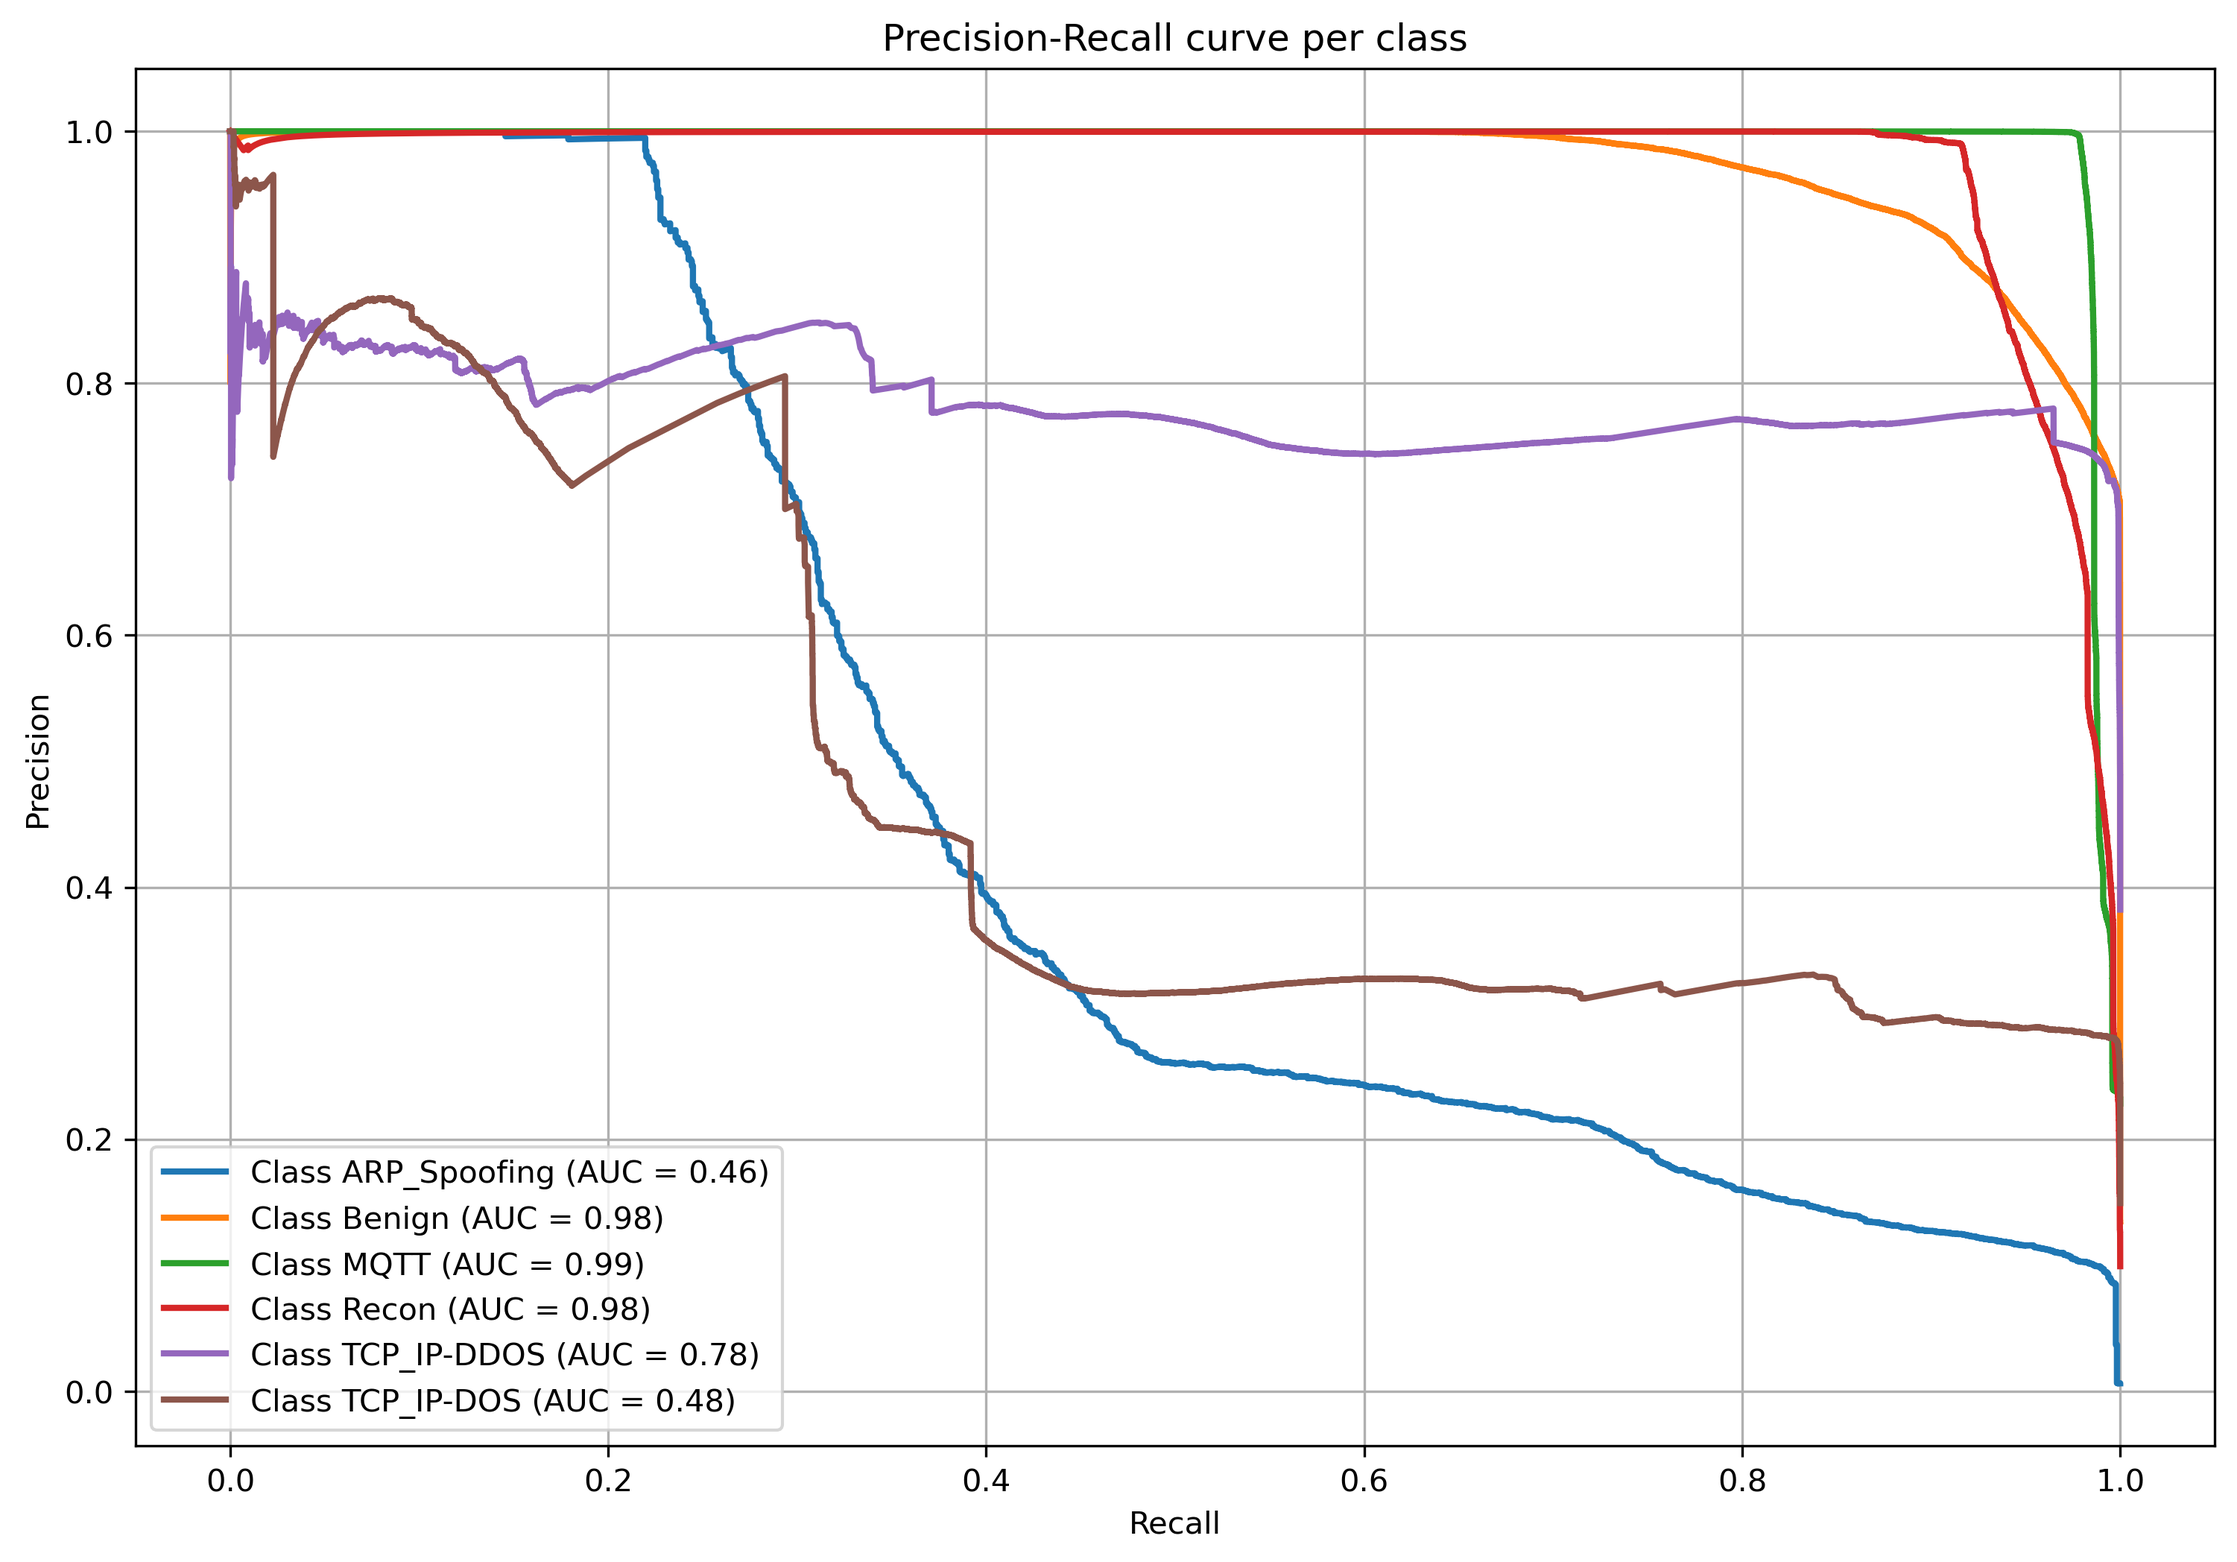
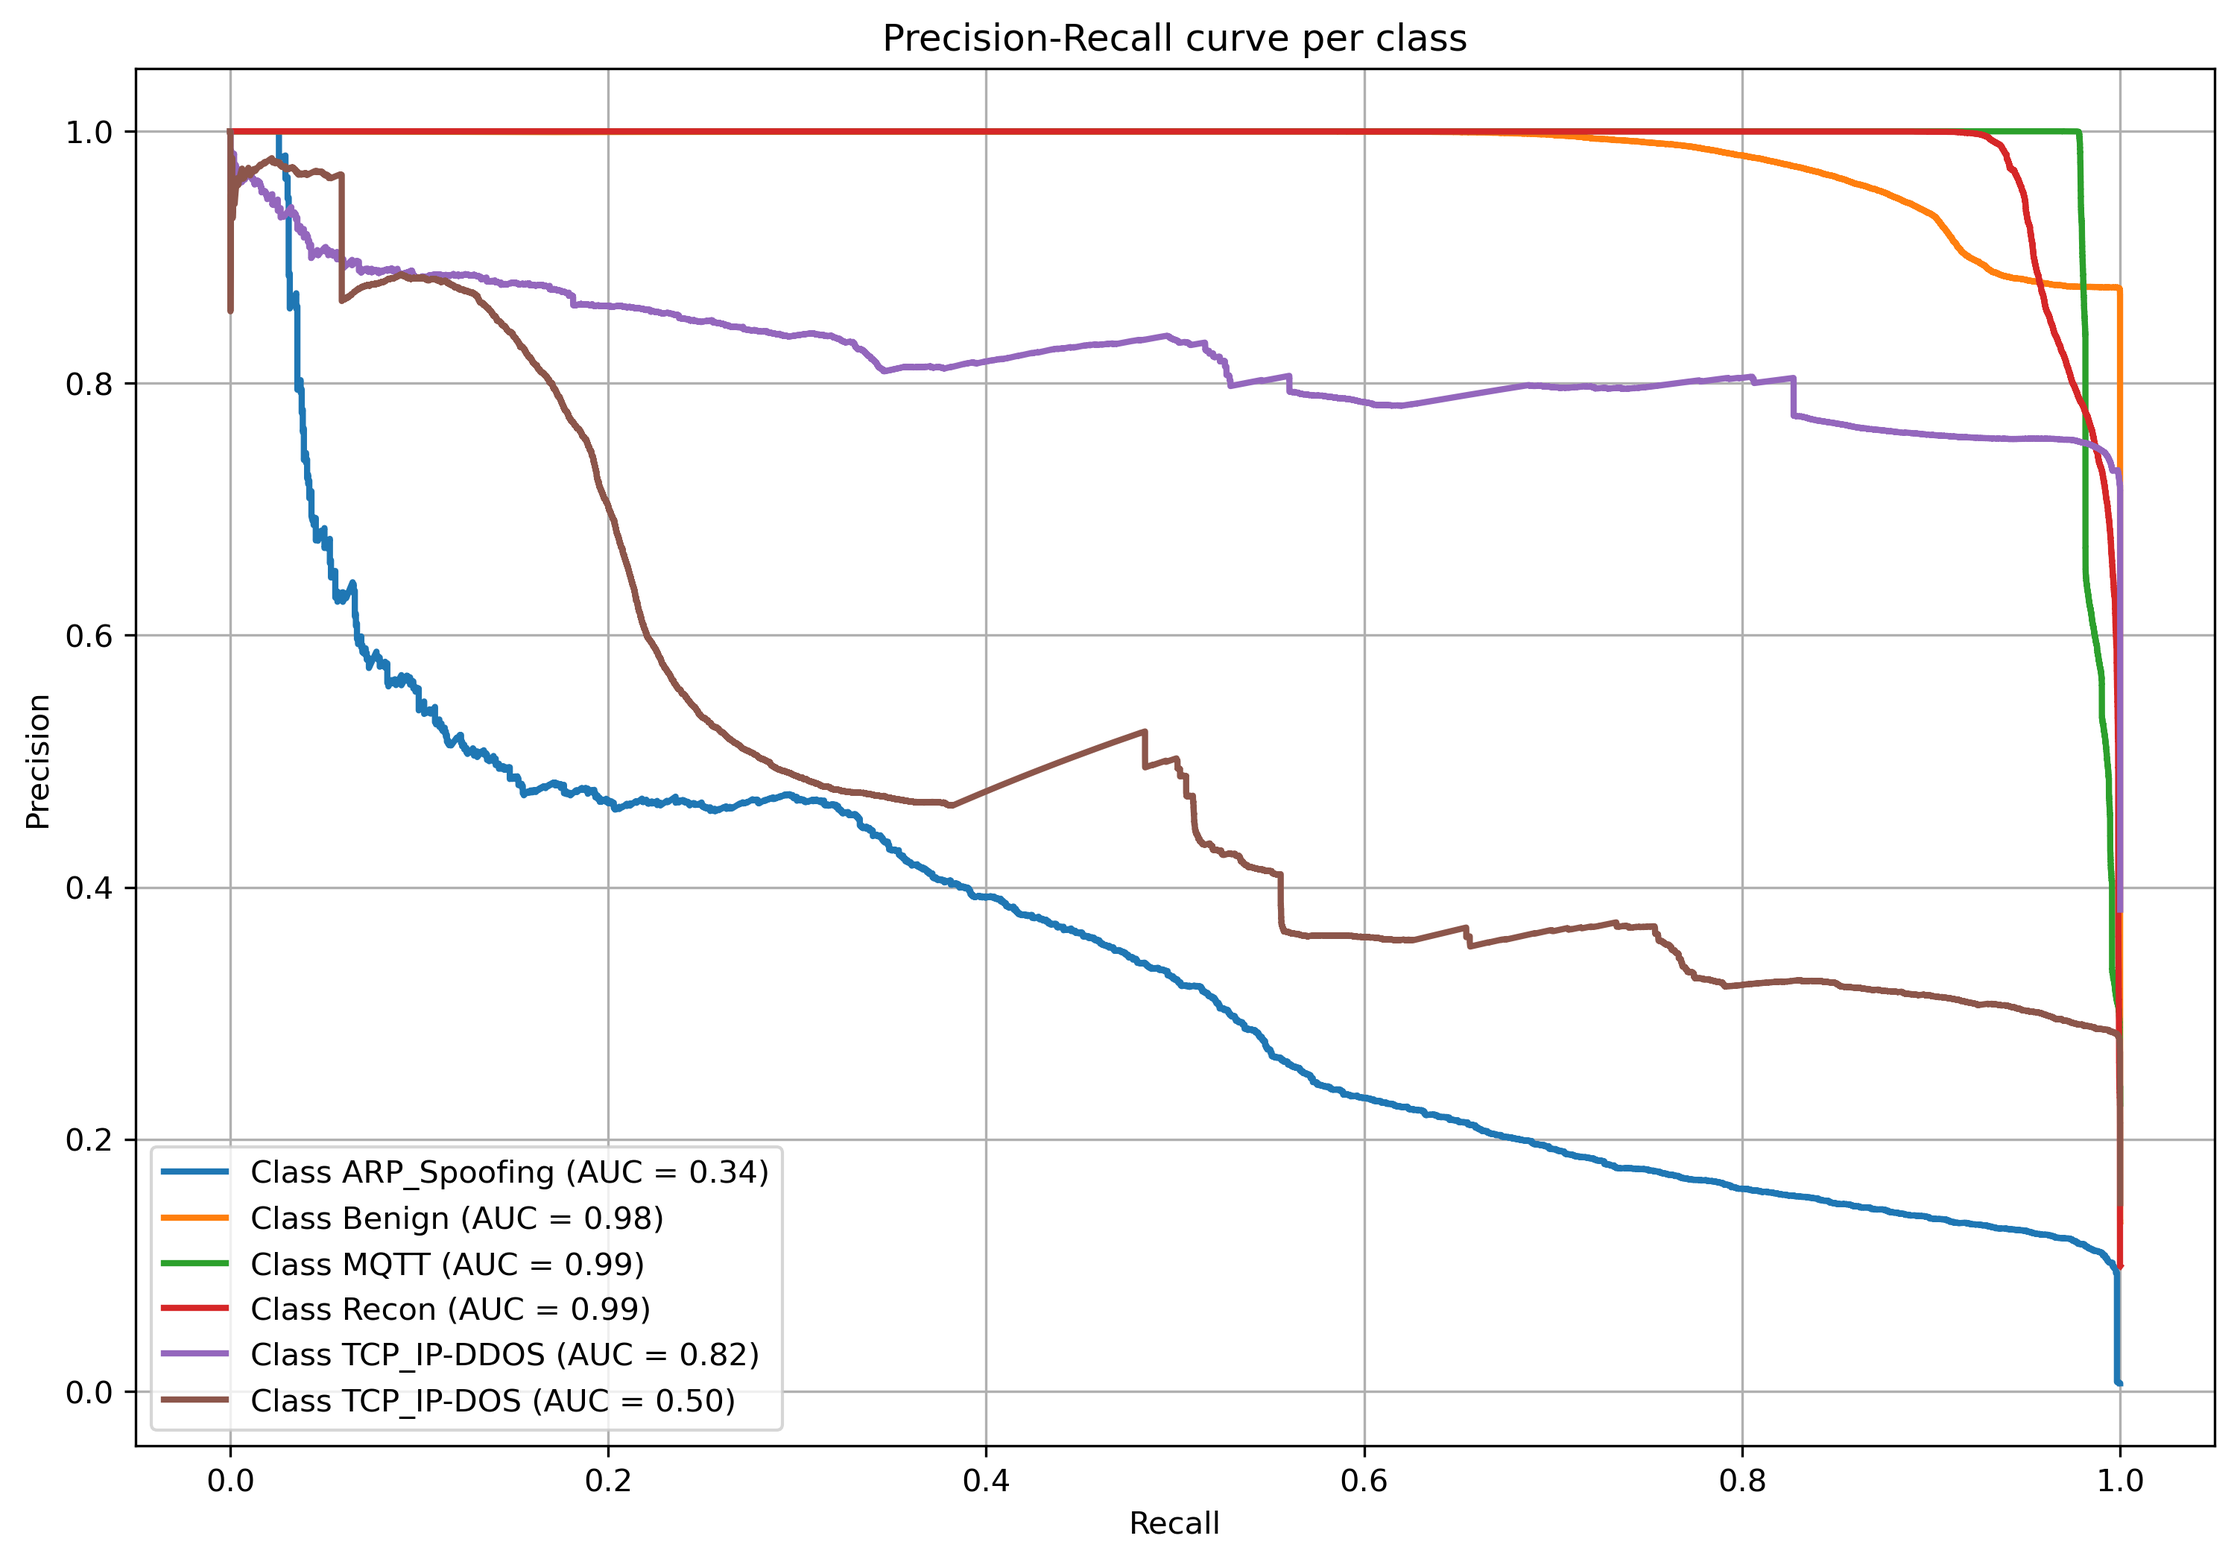
finish curtails dataset into big/med/small

diff --git a/LTNtorch/reduct_data.py b/LTNtorch/reduct_data.py
@@ -1,16 +1,21 @@
 import pandas as pd
+from sklearn.model_selection import train_test_split
+
+label_L1_mapping = [
+    "ARP_Spoofing", "Benign", "MQTT", "Recon", "TCP_IP-DDOS", "TCP_IP-DOS"
+]
 
 # 读取训练集和测试集文件
 # processed_train_file = '/home/zyang44/Github/baseline_cicIOT/CIC_IoMT/19classes/reduced_train_data.csv'
 # processed_test_file = '/home/zyang44/Github/baseline_cicIOT/CIC_IoMT/19classes/reduced_test_data.csv'
-# processed_train_file = '/home/zyang44/Github/baseline_cicIOT/CIC_IoMT/19classes/processed_train_data.csv'
-# processed_test_file = '/home/zyang44/Github/baseline_cicIOT/CIC_IoMT/19classes/processed_test_data.csv'
+processed_train_file = '/home/zyang44/Github/baseline_cicIOT/CIC_IoMT/19classes/processed_train_data.csv'
+processed_test_file = '/home/zyang44/Github/baseline_cicIOT/CIC_IoMT/19classes/processed_test_data.csv'
 
 
-processed_train_file = '/home/zyang44/Github/baseline_cicIOT/CIC_IoMT/6classes/processed_train_data_6classes.csv'
-processed_test_file = '/home/zyang44/Github/baseline_cicIOT/CIC_IoMT/6classes/processed_test_data_6classes.csv'
-# processed_train_file = '/home/zyang44/Github/baseline_cicIOT/CIC_IoMT/6classes/6classes_15k_train.csv'
-# processed_test_file = '/home/zyang44/Github/baseline_cicIOT/CIC_IoMT/6classes/6classes_1700_test.csv'
+# processed_train_file = '/home/zyang44/Github/baseline_cicIOT/CIC_IoMT/6classes/processed_train_data_6classes.csv'
+# processed_test_file = '/home/zyang44/Github/baseline_cicIOT/CIC_IoMT/6classes/processed_test_data_6classes.csv'
+# processed_train_file = '/home/zyang44/Github/baseline_cicIOT/CIC_IoMT/6classes/6classes_100k_train.csv'
+# processed_test_file = '/home/zyang44/Github/baseline_cicIOT/CIC_IoMT/6classes/6classes_10k_test.csv'
 
 # 加载数据
 train_data = pd.read_csv(processed_train_file)
@@ -49,8 +54,9 @@ def print_label_counts(df):
     # else:
     #     print("The DataFrame does not have a 'label' column.")
 
-
+# print("Training data shape:", train_data.shape)
 # print_label_counts(train_data)
+# print("Test data shape:", test_data.shape)
 # print_label_counts(test_data)
 
 
@@ -68,11 +74,11 @@ def print_extended_label_counts(df):
         label_L1_counts = df['label_L1'].value_counts()
         label_L2_counts = df['label_L2'].value_counts()
 
-        print("Label_L1 Counts:")
+        print("label_L1 Counts:")
         for label, count in label_L1_counts.items():
             print(f"Label_L1 {label}: {count} entries")
 
-        print("\nLabel_L2 Counts:")
+        print("\nlabel_L2 Counts:")
         for label, count in label_L2_counts.items():
             print(f"Label_L2 {label}: {count} entries")
 
@@ -95,7 +101,7 @@ def print_extended_label_counts(df):
 
 
 #########################################################################
-def reduce_instances(df, labels_to_reduce, reduction_fraction=0.01):
+def reduce_instances(df, labels_to_reduce, reduction_fraction=0.5):
     """
     减少特定标签类别的实例至原数据的一定比例。
 
@@ -123,16 +129,16 @@ def reduce_instances(df, labels_to_reduce, reduction_fraction=0.01):
 
 
 # 调用函数
-reduced_train_data = reduce_instances(train_data, ["TCP_IP-DDOS", "TCP_IP-DOS"], 0.1)
-reduced_test_data = reduce_instances(test_data, ["TCP_IP-DDOS", "TCP_IP-DOS"], 0.1)
+# reduced_train_data = reduce_instances(train_data, label_L1_mapping, 0.3)
+# reduced_test_data = reduce_instances(test_data, label_L1_mapping, 0.3)
 
 # print("Training data shape:", reduced_train_data.shape)
 # print_label_counts(reduced_train_data)
 # print("Test data shape:", reduced_test_data.shape)
 # print_label_counts(reduced_test_data)
 
-reduced_train_data.to_csv("/home/zyang44/Github/baseline_cicIOT/CIC_IoMT/6classes/6classes_big_train.csv", index=False)
-reduced_test_data.to_csv("/home/zyang44/Github/baseline_cicIOT/CIC_IoMT/6classes/6classes_big_test.csv", index=False)
+# reduced_train_data.to_csv("/home/zyang44/Github/baseline_cicIOT/CIC_IoMT/6classes/6classes_30k_train.csv", index=False)
+# reduced_test_data.to_csv("/home/zyang44/Github/baseline_cicIOT/CIC_IoMT/6classes/6classes_3k_test.csv", index=False)
 
 
 ###############################################################################
@@ -151,15 +157,15 @@ def reduce_to_n_samples(data, n_samples=64):
     return reduced_data
 
 
-# # Create reduced datasets
-# reduced_train_data = reduce_to_n_samples(train_data, 15000)
-# reduced_test_data = reduce_to_n_samples(test_data, 1700)
-#
+# Create reduced datasets
+# reduced_train_data = reduce_to_n_samples(train_data, 16047)
+# reduced_test_data = reduce_to_n_samples(test_data, 1744)
+
 # print("Training data shape:", reduced_train_data.shape)
 # print("Test data shape:", reduced_test_data.shape)
-#
-# reduced_train_data.to_csv("../CIC_IoMT/6classes/6classes_15k_train.csv", index=False)
-# reduced_test_data.to_csv("../CIC_IoMT/6classes/6classes_1700_test.csv", index=False)
+
+# reduced_train_data.to_csv("/home/zyang44/Github/baseline_cicIOT/CIC_IoMT/6classes/6classes_100k_train.csv", index=False)
+# reduced_test_data.to_csv("/home/zyang44/Github/baseline_cicIOT/CIC_IoMT/6classes/6classes_10k_test.csv", index=False)
 
 #####################################################################################
 ############# Part of the data from IoMT (benign & MQTT)#####################
@@ -209,41 +215,31 @@ def create_labels(row):
 
 #####################################################################################
 ############# reduce the huge data from IoMT (Dos & DDos)#####################
-def reduce_data(train_file, test_file, selected_labels, max_samples=20000):
+def reduce_data(train_file, selected_labels, max_samples):
     # 读取训练和测试数据
     train_data = pd.read_csv(train_file)
-    test_data = pd.read_csv(test_file)
 
     # 初始化空的DataFrame用于存储缩减后的数据
     reduced_train_data = pd.DataFrame()
-    reduced_test_data = pd.DataFrame()
-
-    double_max_samples = max_samples*2
 
     # 遍历每个标签并缩减数据
     for label in selected_labels:
         train_subset = train_data[train_data['label'] == label]
-        test_subset = test_data[test_data['label'] == label]
 
-        if len(train_subset) > double_max_samples:
-            train_subset = train_subset.head(double_max_samples)
-        if len(test_subset) > max_samples:
-            test_subset = test_subset.head(max_samples)
+        if len(train_subset) > max_samples:
+            train_subset = train_subset.head(max_samples)
 
         reduced_train_data = pd.concat([reduced_train_data, train_subset], ignore_index=True)
-        reduced_test_data = pd.concat([reduced_test_data, test_subset], ignore_index=True)
 
     # 将非selected_labels的数据也加入到缩减后的数据集中
     other_train_data = train_data[~train_data['label'].isin(selected_labels)]
-    other_test_data = test_data[~test_data['label'].isin(selected_labels)]
 
     reduced_train_data = pd.concat([reduced_train_data, other_train_data], ignore_index=True)
-    reduced_test_data = pd.concat([reduced_test_data, other_test_data], ignore_index=True)
 
-    return reduced_train_data, reduced_test_data
+    return reduced_train_data
 
 
-def extend_labels(train_data, test_data, label_L1_mapping):
+def extend_labels(train_data, label_L1_mapping):
     # 映射新的label_L1
     def map_label_L1(label):
         for l1 in label_L1_mapping:
@@ -252,26 +248,14 @@ def extend_labels(train_data, test_data, label_L1_mapping):
         return 'Other'
 
     train_data['label_L1'] = train_data['label'].apply(map_label_L1)
-    test_data['label_L1'] = test_data['label'].apply(map_label_L1)
 
     # 修改 'label' 列名为 'label_L2'
     train_data.rename(columns={'label': 'label_L2'}, inplace=True)
-    test_data.rename(columns={'label': 'label_L2'}, inplace=True)
 
     # Modify specific values in the 'label_L2' column
-    train_data['label_L2'] = train_data['label_L2'].replace({"Benign": "benign", "ARP_Spoofing": "arp_spoofing"})
-    test_data['label_L2'] = test_data['label_L2'].replace({"Benign": "benign", "ARP_Spoofing": "arp_spoofing"})
+    # train_data['label_L2'] = train_data['label_L2'].replace({"Benign": "benign", "ARP_Spoofing": "arp_spoofing"})
 
-    # 生成新的文件名
-    extended_train_file = '/home/zyang44/Github/baseline_cicIOT/CIC_IoMT/19classes/reduced_train_data.csv'
-    extended_test_file = '/home/zyang44/Github/baseline_cicIOT/CIC_IoMT/19classes/reduced_test_data.csv'
-
-    # 保存扩展后的数据集到新的CSV文件
-    train_data.to_csv(extended_train_file, index=False)
-    test_data.to_csv(extended_test_file, index=False)
-
-    print(f"Extended train data saved to: {extended_train_file}")
-    print(f"Extended test data saved to: {extended_test_file}")
+    return train_data
 
 
 # 使用示例
@@ -283,22 +267,61 @@ selected_labels = [
     "TCP_IP-DoS-UDP",
     "TCP_IP-DoS-SYN",
     "TCP_IP-DoS-ICMP",
-    "TCP_IP-DoS-TCP"
-]
-label_L1_mapping = [
-    "ARP_Spoofing", "Benign", "MQTT", "Recon", "TCP_IP-DDOS", "TCP_IP-DOS"
-]
+    "TCP_IP-DoS-TCP",
+    "Recon-Port_Scan",
+    "Recon-OS_Scan",
+    "ARP_Spoofing",
+    "Benign",
+    "MQTT-DDoS-Connect_Flood",
+    "MQTT-DoS-Publish_Flood",
+    "MQTT-DDoS-Publish_Flood",
+    "MQTT-DoS-Connect_Flood",
+  ]
+
+# extended_train_file = '/home/zyang44/Github/baseline_cicIOT/CIC_IoMT/19classes/19classes_train.csv'
+# extended_test_file = '/home/zyang44/Github/baseline_cicIOT/CIC_IoMT/19classes/19classes_test.csv'
 
 # # 先进行数据缩减
-# reduced_train_data, reduced_test_data = reduce_data(processed_train_file, processed_test_file, selected_labels)
+# reduced_train_data = reduce_data(processed_train_file, selected_labels, 10000)
+# reduced_test_data = reduce_data(processed_test_file, selected_labels, 10000)
 
-# # 然后扩展标签并保存数据
-# extend_labels(reduced_train_data, reduced_test_data, label_L1_mapping)
+# # 保存扩展后的数据集到新的CSV文件
+# train_data.to_csv(extended_train_file, index=False)
+# test_data.to_csv(extended_test_file, index=False)
 
-# extended_train_data = pd.read_csv('/home/zyang44/Github/baseline_cicIOT/CIC_IoMT/19classes/reduced_train_data.csv')
-# extended_test_data = pd.read_csv('/home/zyang44/Github/baseline_cicIOT/CIC_IoMT/19classes/reduced_test_data.csv')
-# # 打印扩展标签的统计信息
-# print("Train Data:")
-# print_extended_label_counts(extended_train_data)
-# print("\nTest Data:")
-# print_extended_label_counts(extended_test_data)
+# print(f"Extended train data saved to: {extended_train_file}")
+
+#####################################################################################
+########## for 19 classes, combining train and test together and divide later#####
+# Combine the datasets by concatenating rows
+combined_data = pd.concat([train_data, test_data], axis=0, ignore_index=True)
+# print_label_counts(combined_data)
+
+# Step 1: Calculate total entries per class
+label_counts = combined_data['label'].value_counts()
+# Step 2: Define threshold for minority vs majority classes
+## minority_threshold = 10000
+minority_threshold = 1000
+# Step 3: Separate minority and majority classes
+minority_classes = label_counts[label_counts <= minority_threshold].index
+majority_classes = label_counts[label_counts > minority_threshold].index
+# Step 4: Keep all entries from minority classes
+minority_data = combined_data[combined_data['label'].isin(minority_classes)]
+majority_data = combined_data[combined_data['label'].isin(majority_classes)]
+## majority_data = reduce_to_n_samples(majority_data, 15000)
+majority_data = reduce_to_n_samples(majority_data, 1000)
+
+combined_data = pd.concat([minority_data, majority_data], axis=0, ignore_index=True)
+# print_label_counts(combined_data)
+
+extended_data = extend_labels(combined_data, label_L1_mapping)
+print_extended_label_counts(extended_data)
+
+train_data, test_data = train_test_split(extended_data, test_size=0.1, random_state=42, stratify=extended_data['label_L2'])
+extended_train_file = '/home/zyang44/Github/baseline_cicIOT/CIC_IoMT/19classes/19classes_small_train.csv'
+extended_test_file = '/home/zyang44/Github/baseline_cicIOT/CIC_IoMT/19classes/19classes_small_test.csv'
+train_data.to_csv(extended_train_file, index=False)
+test_data.to_csv(extended_test_file, index=False)
+print("Training and testing datasets saved successfully.")
+
+

diff --git a/IoMT_6classes.py b/IoMT_6classes.py
@@ -15,8 +15,8 @@ TEST_DIR = 'CIC_IoMT/test/'
 
 # processed_train_file = 'CIC_IoMT/6classes/processed_train_data_6classes.csv'
 # processed_test_file = 'CIC_IoMT/6classes/processed_test_data_6classes.csv'
-processed_train_file = 'CIC_IoMT/6classes/6classes_15k_train.csv'
-processed_test_file = 'CIC_IoMT/6classes/6classes_1700_test.csv'
+processed_train_file = '/home/zyang44/Github/baseline_cicIOT/CIC_IoMT/6classes/6classes_100k_train.csv'
+processed_test_file = '/home/zyang44/Github/baseline_cicIOT/CIC_IoMT/6classes/6classes_10k_test.csv'
 
 # 特征列名称
 X_columns = [
@@ -87,13 +87,13 @@ training_data[X_columns] = scaler.transform(training_data[X_columns])
 test_data[X_columns] = scaler.transform(test_data[X_columns])
 # After scaling your training data in the training script
 # scaler_save_path = 'CIC_IoMT/6classes/scaler_6classes.joblib'
-scaler_save_path = 'CIC_IoMT/6classes/scaler_6classes_reduced.joblib'
+scaler_save_path = 'CIC_IoMT/6classes/scaler_100k.joblib'
 dump(scaler, scaler_save_path)
 print("Data scaled.")
 
 # Check if the model already exists
 # model_save_path = 'CIC_IoMT/6classes/mlp_classifier_model_6classes.joblib'
-model_save_path = 'CIC_IoMT/6classes/mlp_classifier_model_6classes_reduced.joblib'
+model_save_path = 'CIC_IoMT/6classes/model_100k.joblib'
 if os.path.exists(model_save_path):
     print("Loading existing model...")
     model = load(model_save_path)
